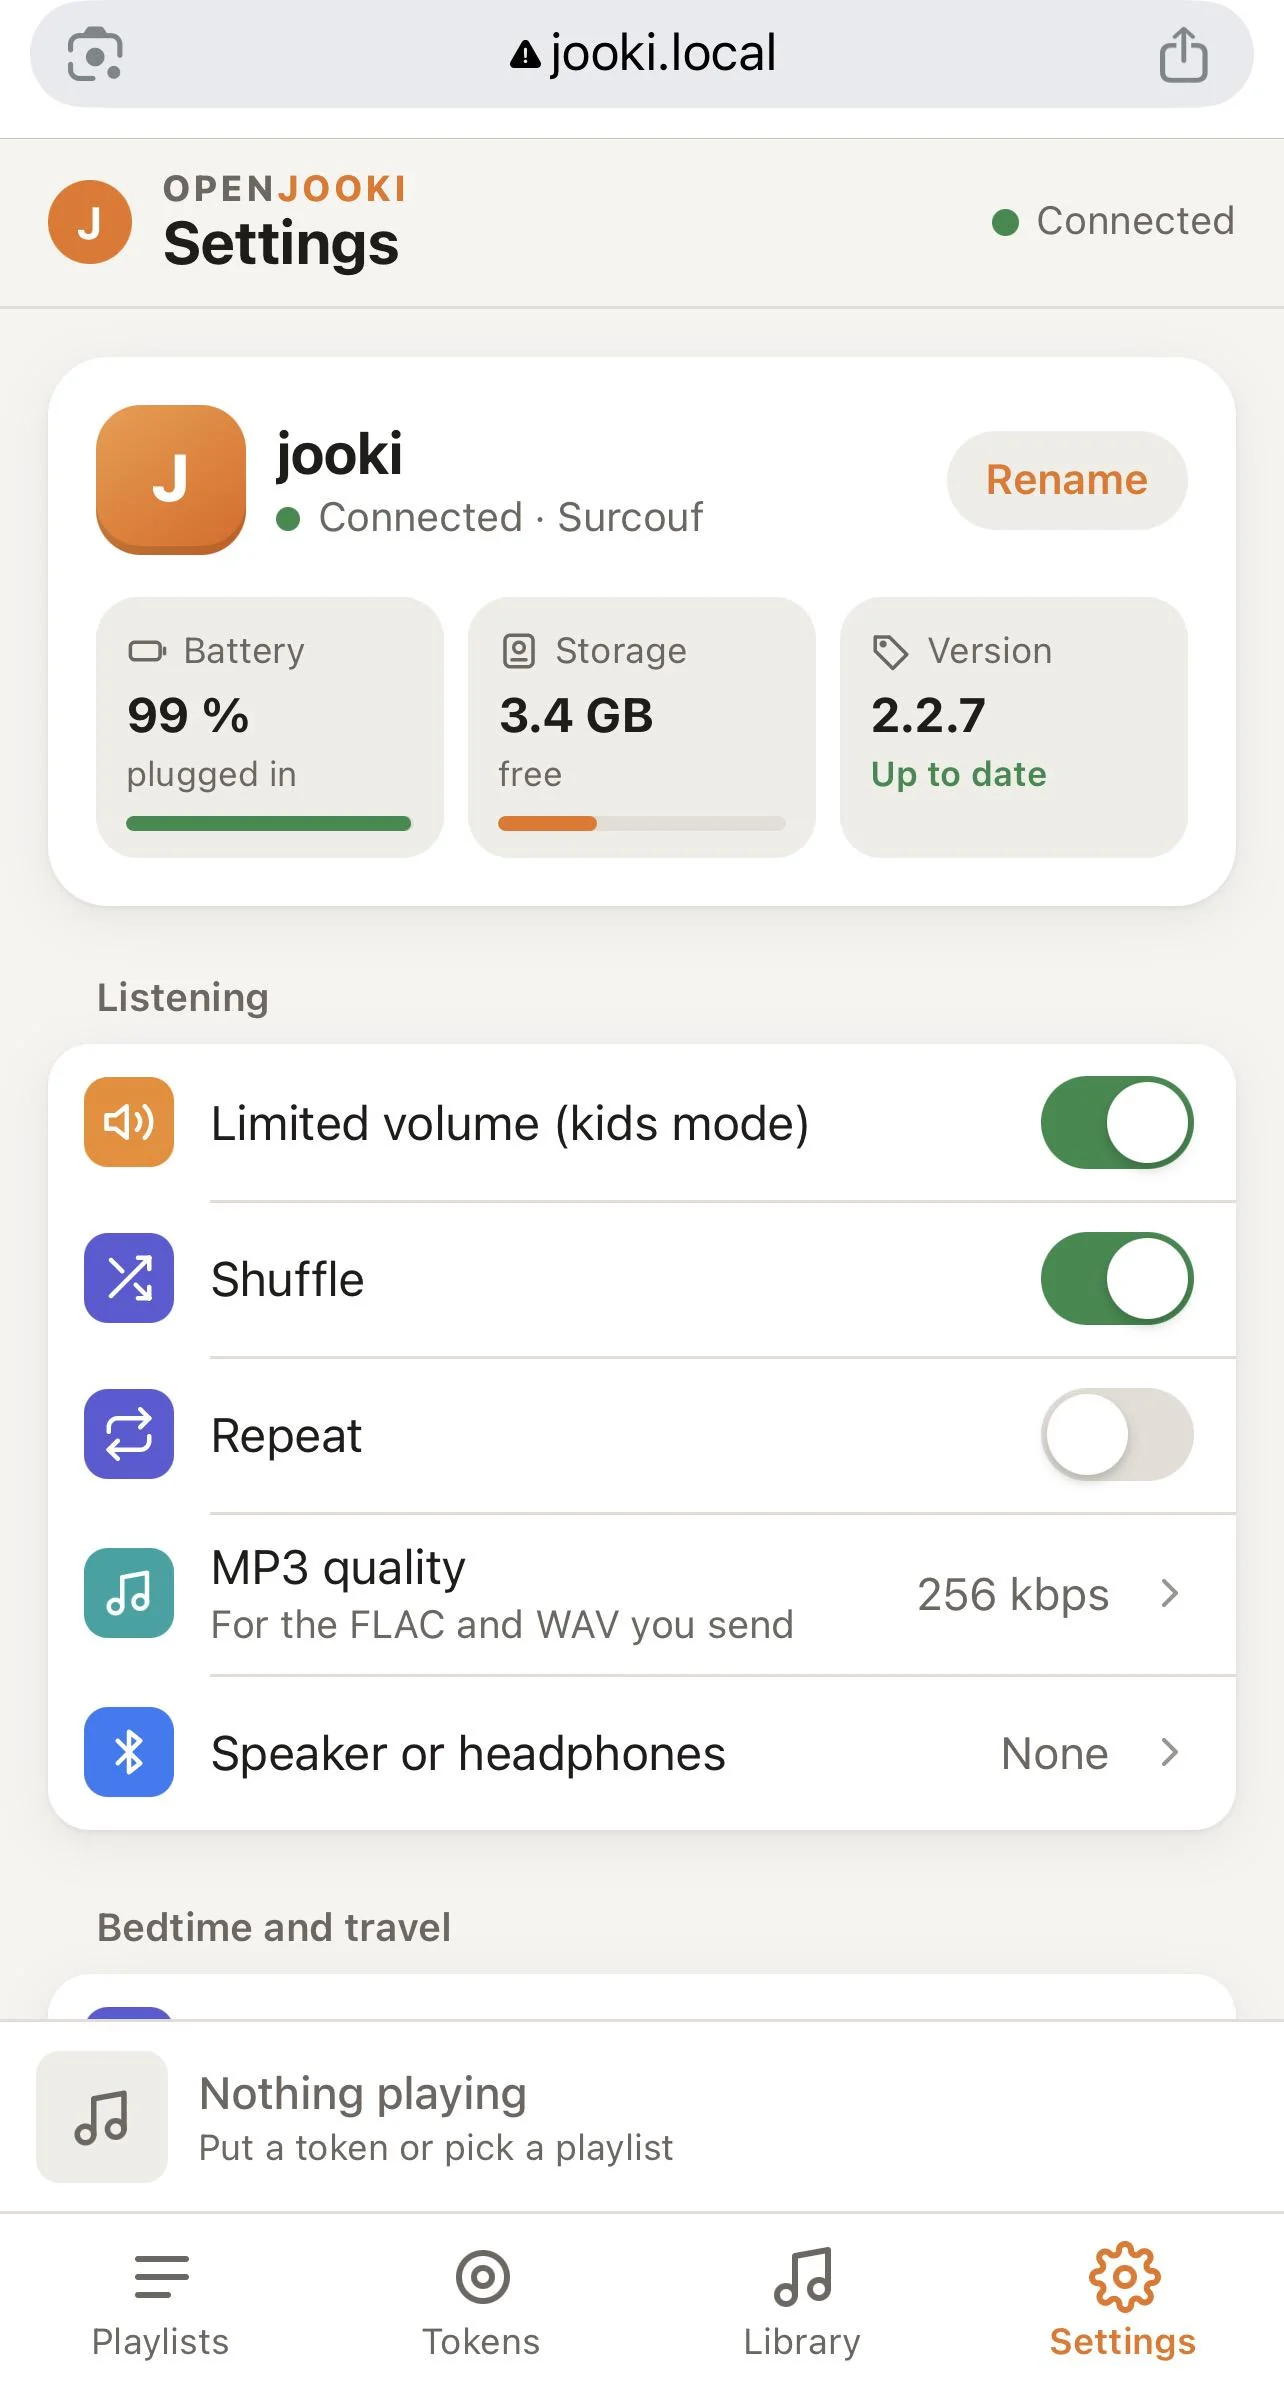
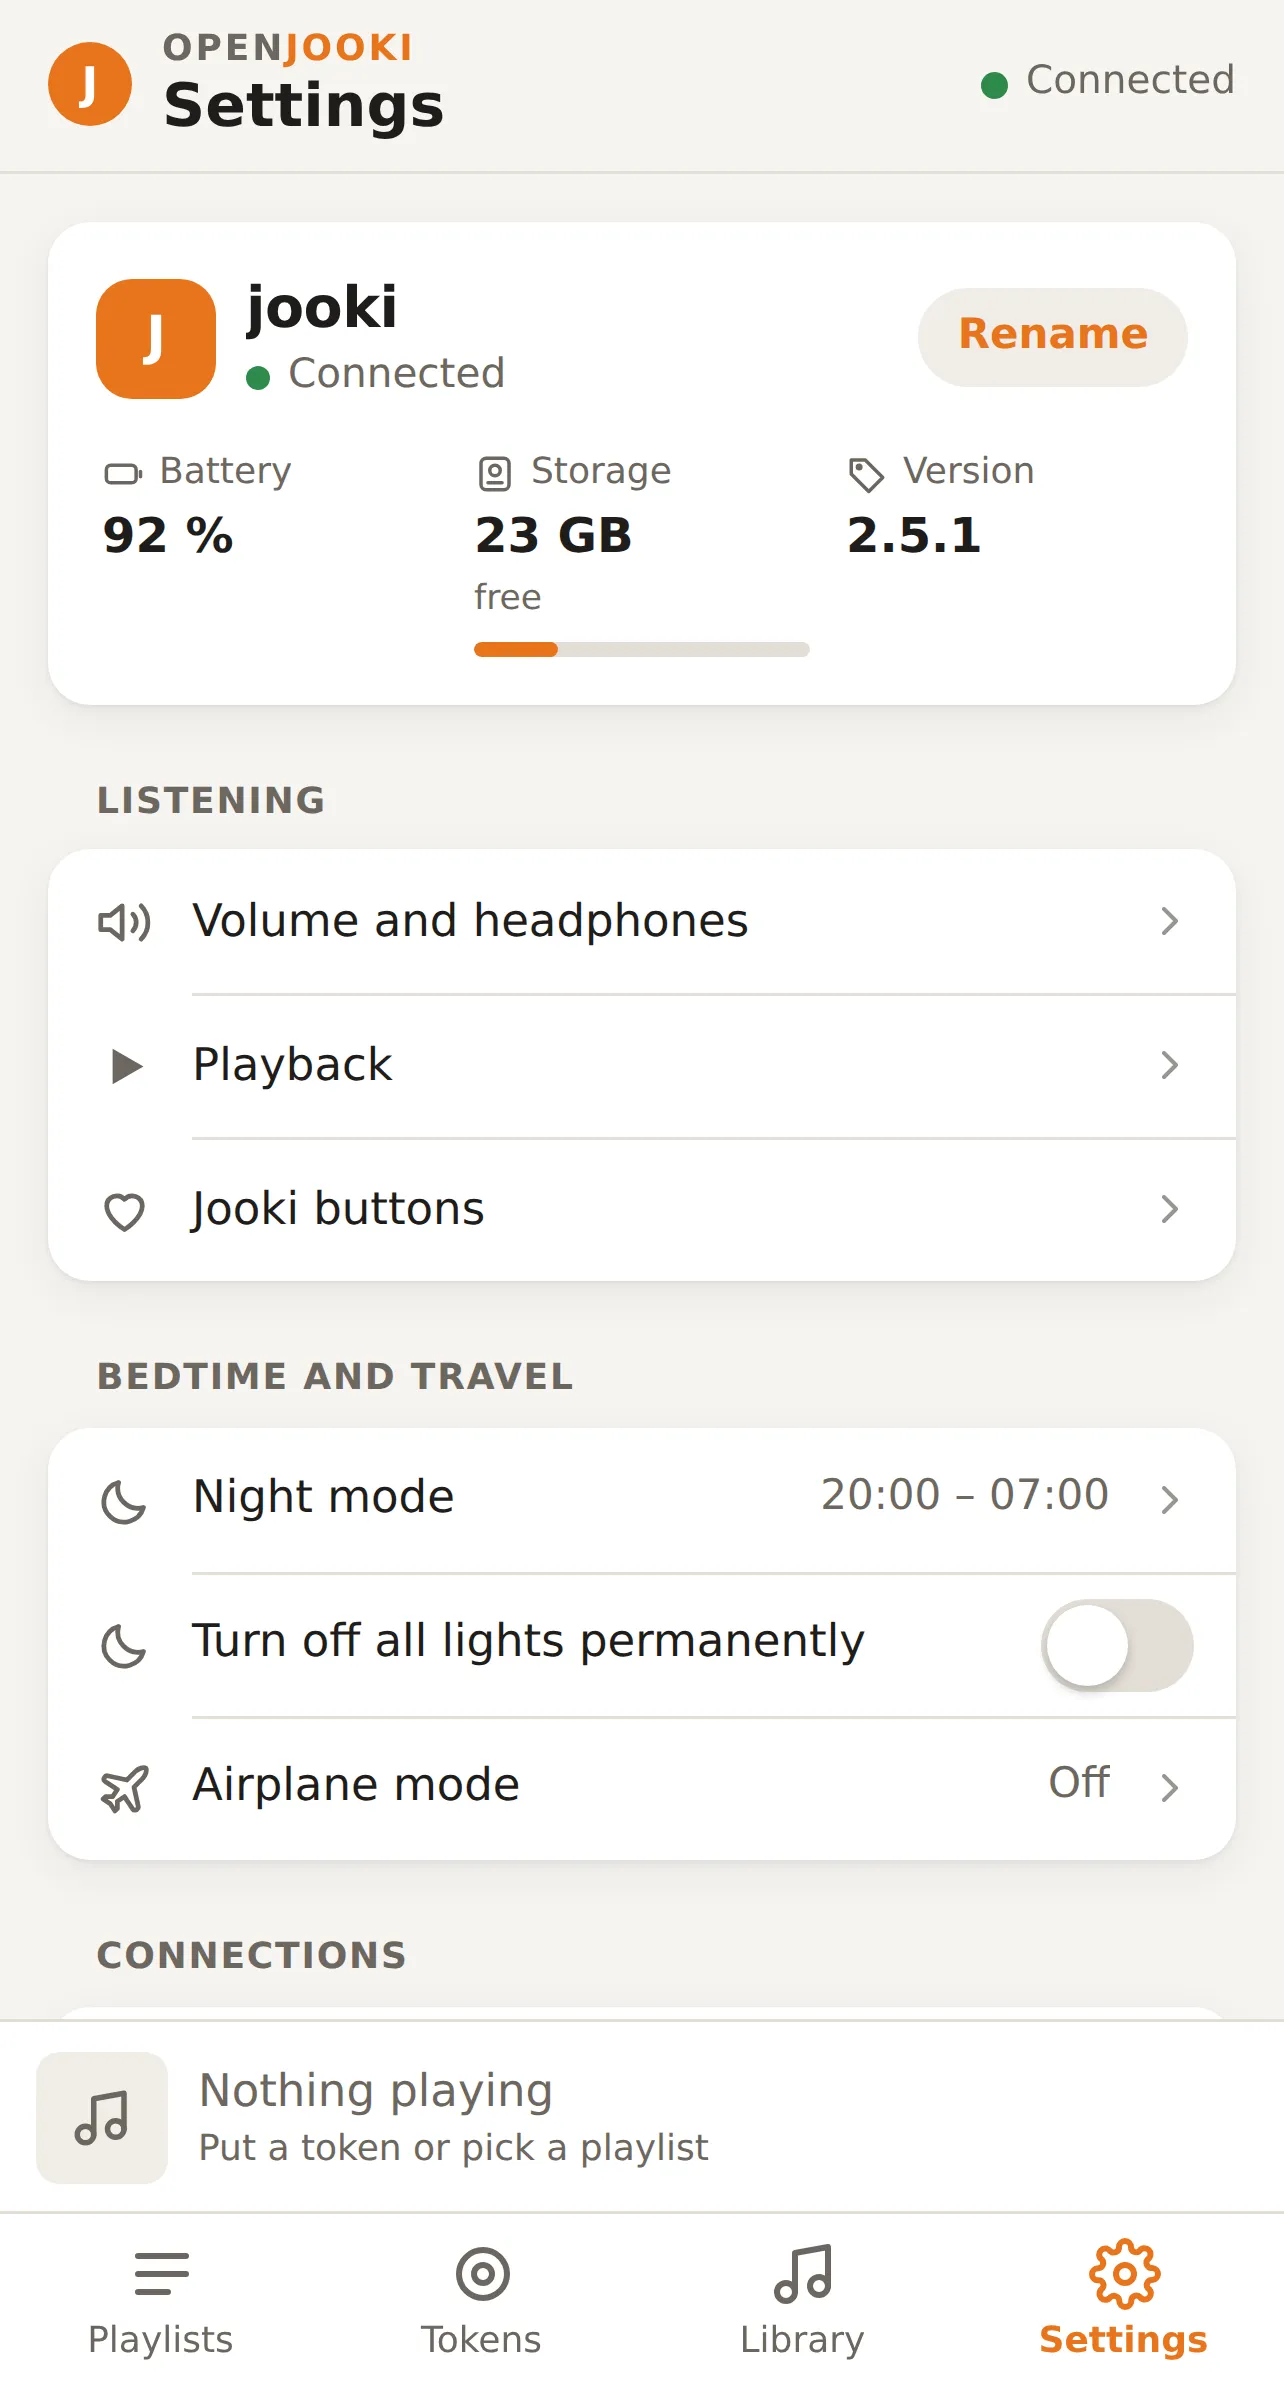
Release 2.5.1: Back to the start

diff --git a/tools/openjooki/webui/index.html b/tools/openjooki/webui/index.html
@@ -15,11 +15,11 @@
 <meta name="mobile-web-app-capable" content="yes">
 <meta name="apple-mobile-web-app-title" content="Jooki">
 <meta name="application-name" content="Jooki">
-<link rel="stylesheet" href="/app.css?v=2.5.0">
+<link rel="stylesheet" href="/app.css?v=2.5.1">
 </head>
 <body>
 <div id="app"><noscript><span lang="en">This page needs JavaScript.</span> / <span lang="fr">Cette page a besoin de JavaScript.</span> / <span lang="nl">Deze pagina heeft JavaScript nodig.</span> / <span lang="de">Diese Seite benötigt JavaScript.</span></noscript></div>
-<script src="/mqtt.js?v=2.5.0"></script>
-<script src="/app.js?v=2.5.0"></script>
+<script src="/mqtt.js?v=2.5.1"></script>
+<script src="/app.js?v=2.5.1"></script>
 </body>
 </html>

diff --git a/tools/openjooki/webui/app.js b/tools/openjooki/webui/app.js
@@ -5,7 +5,7 @@
   'use strict';
 
   var CFG = window.OJ_CONFIG || {};
-  var VERSION = '2.5.0';
+  var VERSION = '2.5.1';
 
   /* ------------------------------------------------------------------ i18n */
   // One table per language (fr, en, nl, de): the same keys in each, checked by the bench.

diff --git a/tools/openjooki/webui/src/00-config.js b/tools/openjooki/webui/src/00-config.js
@@ -1,3 +1,3 @@
   var CFG = window.OJ_CONFIG || {};
-  var VERSION = '2.5.0';
+  var VERSION = '2.5.1';
 

diff --git a/README.md b/README.md
@@ -18,7 +18,7 @@ Free, made by a parent, not affiliated with Muuselabs / Jooki.
   &nbsp;
   <img src="docs/img/shots/jookistory-editor.webp" width="220" alt="Jookistory: record a story page by page, with a sound at the end of each page">
   &nbsp;
-  <img src="docs/img/shots/phone-settings.webp" width="220" alt="Settings on a phone: battery, storage, version, kids volume, shuffle, Bluetooth speaker">
+  <img src="docs/img/shots/phone-settings.webp" width="220" alt="Settings on a phone: battery, storage, version, then a short list of subjects">
 </p>
 <p align="center"><sub>The Jooki's page on a phone · Jookistory, a story read by you · Settings</sub></p>
 
@@ -43,8 +43,8 @@ Free, made by a parent, not affiliated with Muuselabs / Jooki.
 | The lights, the battery, the charger | **[What they mean](guide/lights-and-battery.md)** |
 | Anything else | **[Questions](guide/questions.md)** |
 
-**New in 2.5.0:** German, all lights off, a Test button for the night volume, a random first song, and the page can turn the speaker down.
-2.4.21: the Jooki can play music sent from other apps (UPnP / DLNA): BubbleUPnP, mconnect, a music server, TIDAL or Qobuz through those apps.
+**New in 2.5.1:** the track knob can bring a playlist back to its start, and a tidier Settings page.
+2.5.0: German, all lights off, a Test button for the night volume, a random first song, and the page can turn the speaker down.
 [All the changes](CHANGELOG.md)
 
 ---

diff --git a/guide/use.md b/guide/use.md
@@ -219,7 +219,7 @@ Apps on your phone, or a music server at home, can send music to the Jooki over 
 At the top: the Jooki's name (**Rename**), its battery, the room left for music, and its
 version.
 
-<img src="../docs/img/shots/phone-settings.webp" width="260" alt="Settings on a phone: the Jooki's name and Rename, battery, storage, version up to date, then Limited volume, Shuffle, Repeat, MP3 quality, Speaker or headphones">
+<img src="../docs/img/shots/phone-settings.webp" width="260" alt="Settings on a phone: the Jooki's name and Rename, battery, storage, version, then a short list of subjects: Volume and headphones, Playback, Jooki buttons, Night mode">
 
 **Listening**
 - *Volume and headphones*: **Limited volume (kids mode)**.

diff --git a/CHANGELOG.md b/CHANGELOG.md
@@ -1,6 +1,6 @@
 # OpenJooki — Changelog
 
-## Next release
+## OpenJooki 2.5.1 (9 November 2026) — Back to the start
 - **Back to the start, from the Jooki itself.** A new choice for the track knob, in *Settings → Jooki buttons*: held to the left for three seconds, the playlist starts again from its first song, and an audiobook forgets its place. Short turns stay next and previous. Off by default (#40, thank you aosavi).
 - **A tidier Settings page.** A short list of subjects, the details behind each one, plain icons instead of coloured tiles, two columns on a computer. Nothing is gone: *Volume and headphones*, *Playback*, *Jooki buttons* and *Advanced* hold what the long list had.
 
